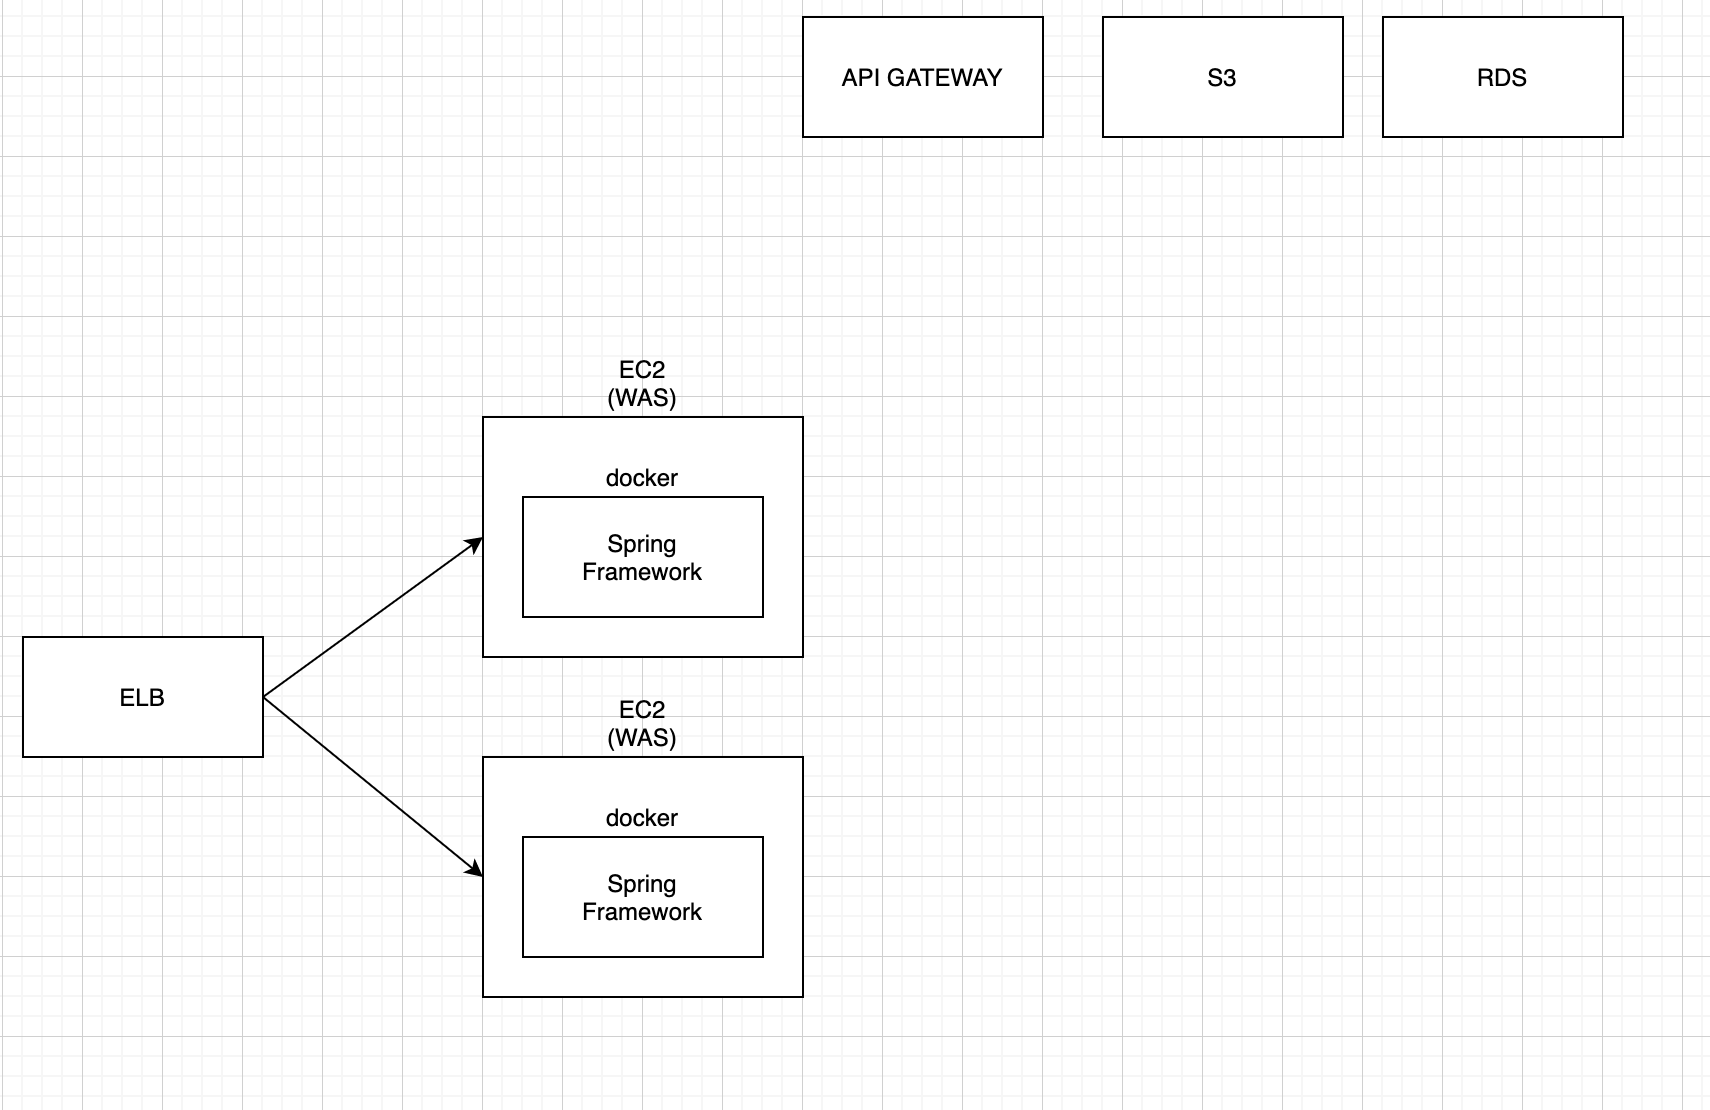
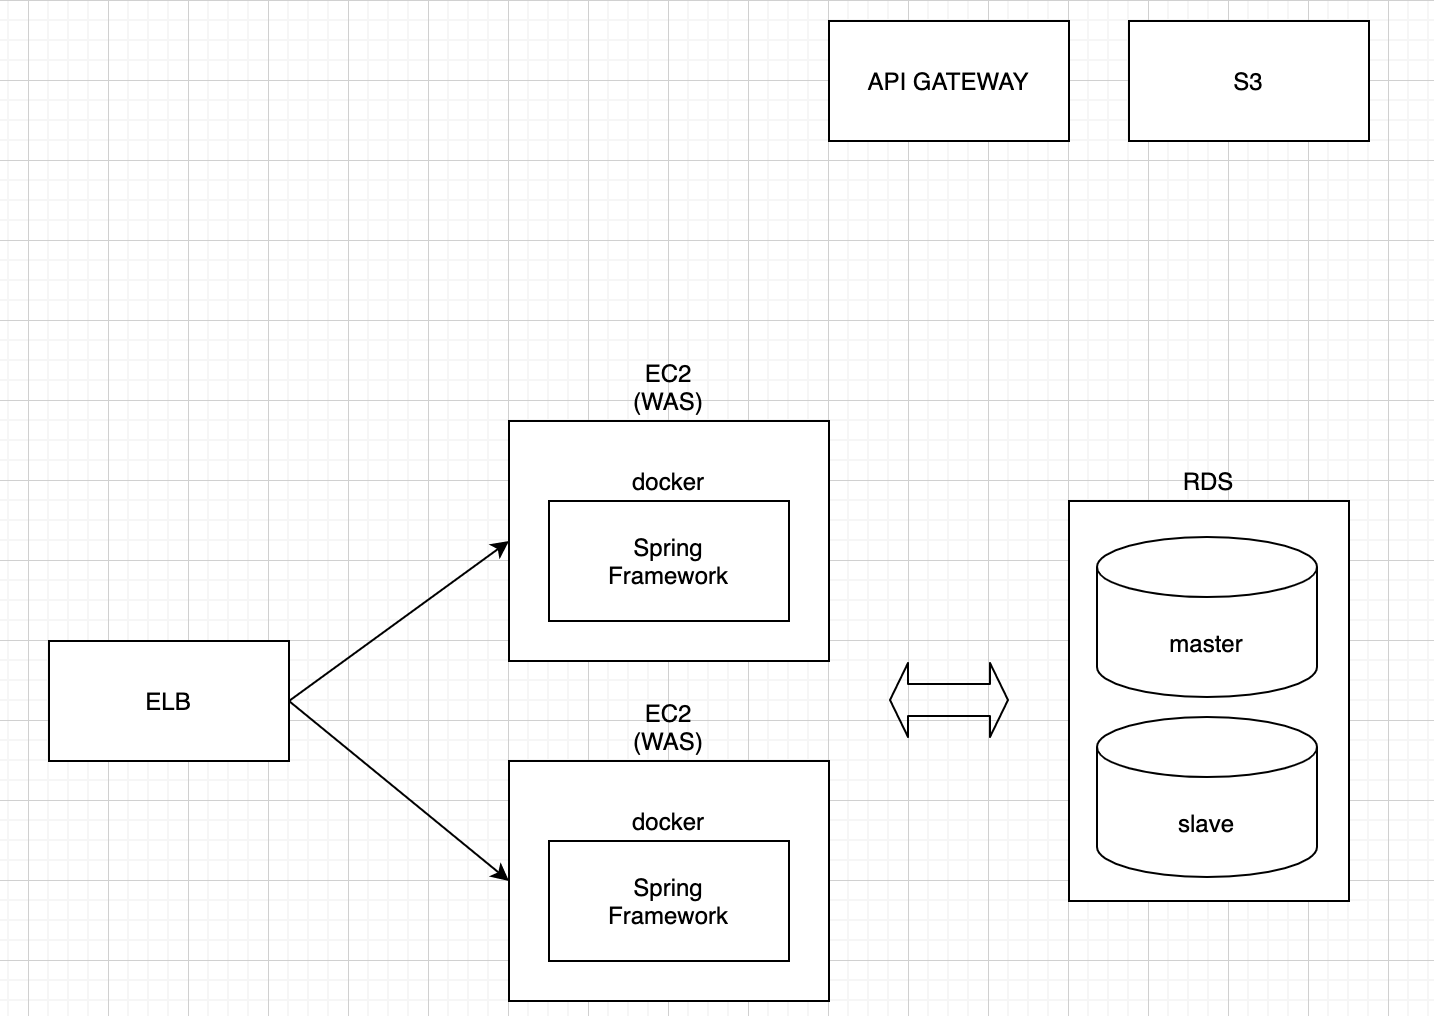
아키텍처 수정 및 CICD 구성

diff --git a/README.md b/README.md
@@ -9,4 +9,8 @@
 
 ### Basic Web Service Architecture(AWS)
 
-<img src="/img/AWS_Basic-Web-Service-Architecture.png" width="500px">
+<img src="/img/AWS_Basic-Web-Service-Architecture.png" width="750px">
+
+### CI-CD 구성
+
+<img src="/img/CI-CD.png" width="750px">
